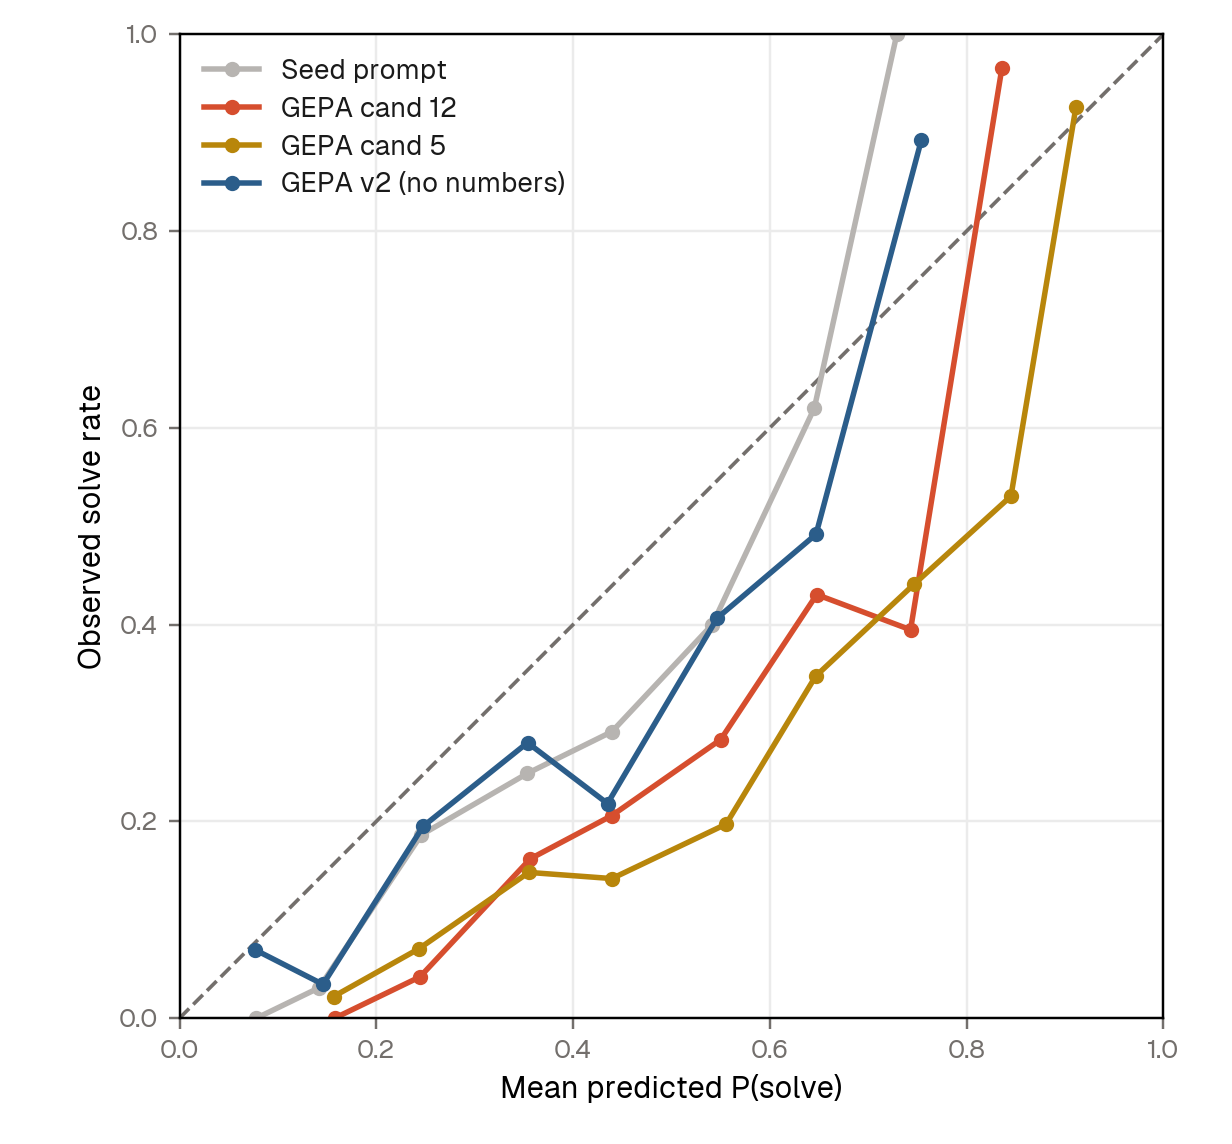
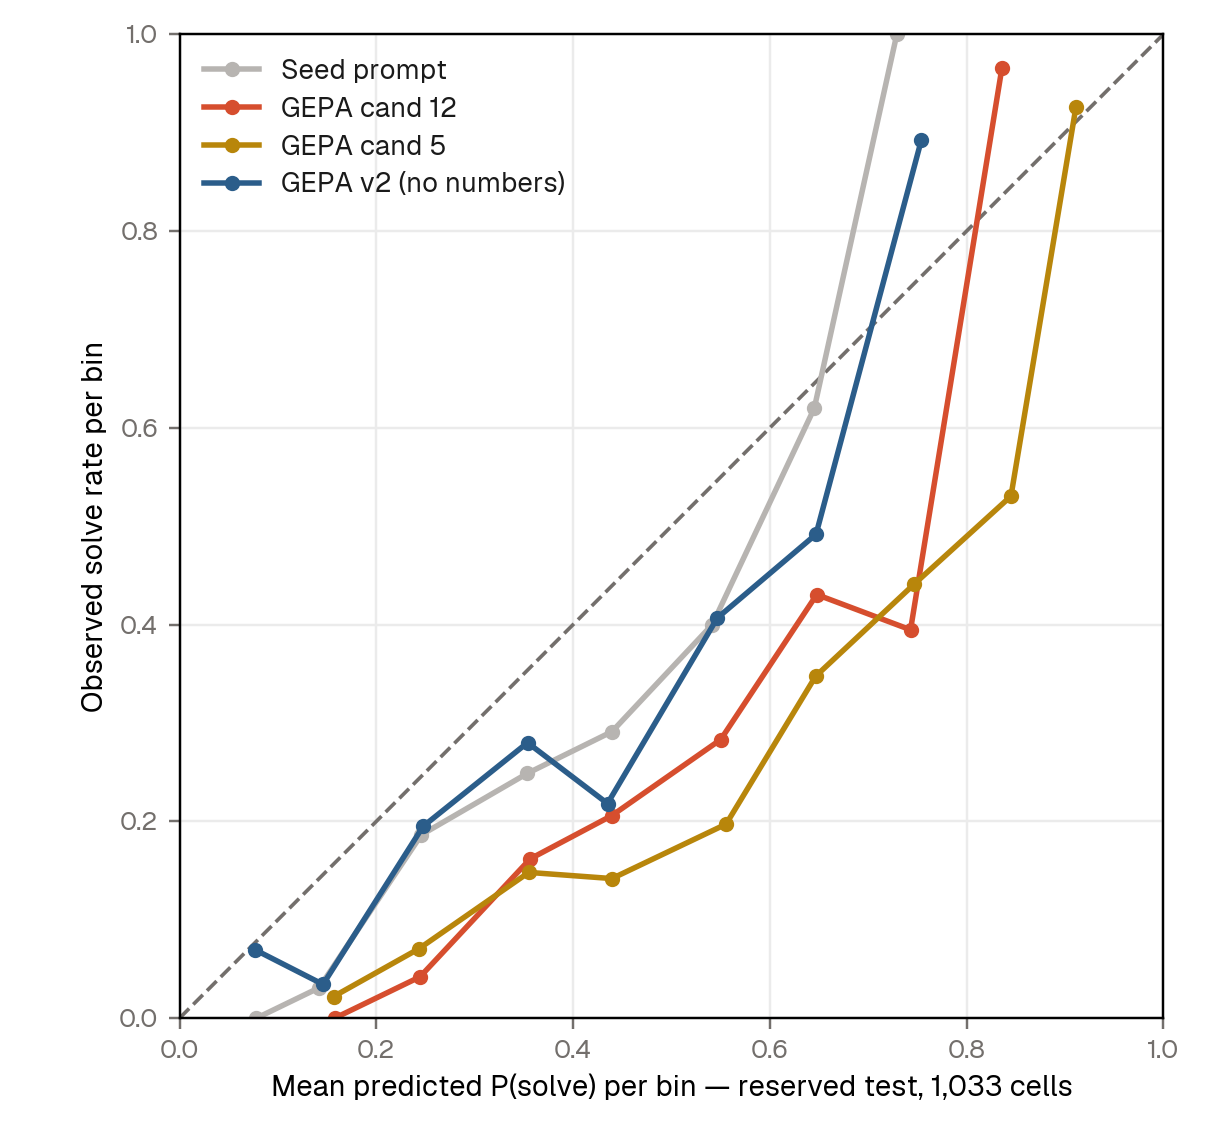
fig23 axis disambiguation; fig24 Cox calibration lines in log-odds (shared-slope, per-prompt-intercept structure)

Changed region(s): [[0.2159, 0.9178, 0.7403, 0.979], [0.0617, 0.3059, 0.0925, 0.6119], [0.7711, 0.9178, 0.8636, 0.979]]

diff --git a/intra_benchmark_calibration/experiments/III_gepa_optimization/summary/make_fig24.py b/intra_benchmark_calibration/experiments/III_gepa_optimization/summary/make_fig24.py
@@ -1,0 +1,58 @@
+#!/usr/bin/env python3
+"""fig24: calibration lines in log-odds (Cox fit per prompt), reserved test.
+Fitted logit(observed) = a + b*logit(predicted); identity = perfect."""
+import json
+import os
+from pathlib import Path
+
+import numpy as np
+import pandas as pd
+from scipy import optimize
+import matplotlib
+matplotlib.use("Agg")
+import matplotlib.pyplot as plt
+
+INK = "#1a1a1a"; MUTED = "#736f6c"; HAIR = "#ebebeb"
+GOLD = "#b8860b"; VERM = "#d64e2e"; GRAY = "#b7b4b1"; BLUE = "#2b5d8a"
+plt.rcParams.update({"font.family": "Geist", "figure.facecolor": "white",
+                     "savefig.facecolor": "white"})
+
+GEPA = Path(os.environ.get("GEPA_DIR", Path(__file__).resolve().parents[4].parent / "gepa"))
+files = ["noise_cells_test_set.jsonl", "noise_cells_test_ext_winners.jsonl",
+         "noise_cells_test_ext_ablation.jsonl", "noise_cells_test_ext_modelbin.jsonl"]
+rows = [json.loads(l) for f in files for l in open(GEPA / "runs/noise_study" / f) if l.strip()]
+df = pd.DataFrame(rows)
+df = df[df["set"] == "test"]
+cell = df.groupby(["prompt", "task_id", "model"], as_index=False).agg(
+    p50=("p50", "mean"), y=("outcome", "first"))
+
+
+def lgt(p):
+    return np.log(p / (1 - p))
+
+
+SHOW = [("seed", "Seed", GRAY), ("july_cand12", "GEPA cand 12", VERM),
+        ("joint_cand5", "GEPA cand 5", GOLD), ("v2_cand13", "GEPA v2", BLUE)]
+
+fig, ax = plt.subplots(figsize=(5.8, 5.4), dpi=220)
+fig.subplots_adjust(top=0.97, bottom=0.11, left=0.13, right=0.97)
+ax.plot([-4, 4], [-4, 4], ls="--", lw=1.2, color=MUTED)
+for key, label, color in SHOW:
+    c = cell[cell["prompt"] == key]
+    z = lgt(np.clip(c["p50"], 0.01, 0.99)).to_numpy()
+    y = c["y"].to_numpy()
+    X = np.column_stack([np.ones(len(z)), z])
+    r = optimize.minimize(lambda w: np.sum(np.logaddexp(0, X @ w) - y * (X @ w)),
+                          [0.0, 1.0], method="L-BFGS-B")
+    a, b = r.x
+    xs = np.array([np.quantile(z, 0.02), np.quantile(z, 0.98)])
+    ax.plot(xs, a + b * xs, lw=2.0, color=color,
+            label=f"{label}  (slope {b:.2f}, intercept {a:+.2f})")
+ax.set_xlabel("log-odds of predicted P(solve) — reserved test, 1,033 cells", fontsize=9.5)
+ax.set_ylabel("log-odds of observed solve rate (Cox fit)", fontsize=9.5)
+ax.set_xlim(-4, 4); ax.set_ylim(-5.5, 4); 
+ax.legend(loc="upper left", frameon=False, fontsize=8.5, labelcolor=INK)
+ax.grid(color=HAIR, lw=0.8); ax.set_axisbelow(True)
+ax.tick_params(colors=MUTED, labelsize=8.5)
+fig.savefig("fig24_calibration_logit.png")
+print("fig24 written")

diff --git a/intra_benchmark_calibration/experiments/III_gepa_optimization/summary/make_fig23.py b/intra_benchmark_calibration/experiments/III_gepa_optimization/summary/make_fig23.py
@@ -45,8 +45,8 @@ for key, label, color in SHOW:
         if m.sum() >= 15:
             xs.append(c["p50"][m].mean()); ys.append(c["y"][m].mean())
     ax.plot(xs, ys, marker="o", ms=4, lw=1.8, color=color, label=label)
-ax.set_xlabel("Mean predicted P(solve)", fontsize=10)
-ax.set_ylabel("Observed solve rate", fontsize=10)
+ax.set_xlabel("Mean predicted P(solve) per bin — reserved test, 1,033 cells", fontsize=9.5)
+ax.set_ylabel("Observed solve rate per bin", fontsize=9.5)
 ax.set_xlim(0, 1); ax.set_ylim(0, 1); ax.set_aspect("equal")
 ax.legend(loc="upper left", frameon=False, fontsize=9, labelcolor=INK)
 ax.grid(color=HAIR, lw=0.8); ax.set_axisbelow(True)
